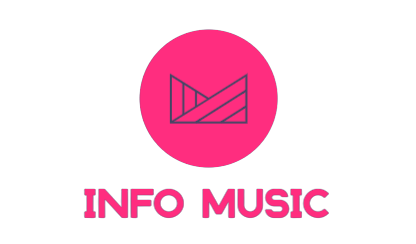
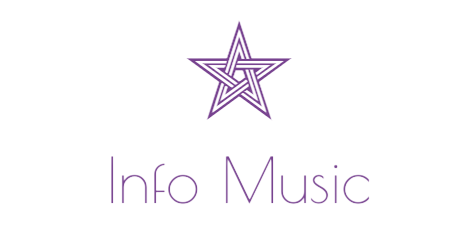
all clear

Changed region(s): [[0.1875, 0.0861, 0.8125, 0.918], [0.3438, 0.6311, 0.375, 0.6598]]

diff --git a/resources/css/elements.css b/resources/css/elements.css
@@ -1,20 +1,30 @@
-/* style de elementos */
-.main-header{
-    width: 100%;
+.header{
     padding: 0;
-    margin-top: 0;
     display: flex;
-    justify-content:center;
-}    
-.content-header{
-    border-radius: 100px;
-    width: 120px;
+    justify-content: space-between;
+    padding:20px;
+    align-items:center;
+    flex-wrap: wrap;
 }
-.content-header img{
-    background: var(--main-white);
-    border-bottom-right-radius: 20px;
-    border-bottom-left-radius: 20px;
-    height: 100px;
+.header a img{
+    height: 90px;
+}
+.menu{
+   display: flex;
+}
+.menu li{
+    margin-left: 15px;
+    color: var(--main-white);
+    cursor: pointer;
+    text-transform: uppercase;
+    font-size: 1.0rem;
+}
+.menu li:hover{
+    color: var(--sec-purple);
+}
+.menu li a{
+    display: block;
+    padding: 10px;
 }
 .search-box{
     position: absolute;
@@ -70,94 +80,42 @@
     height: 20px;
 }
 
-/* style footer */
-
-footer{
-    position: fixed;
-    bottom: 0px;
-    width: 100%;
-    background: var(--main-black);
-    color: var(--main-white);
-    font-size: 12px;
-}
-
-.main-content{
-    display: flex;
-}
-
-.main-content .box{
-    flex-basis: 50%;
-    padding: 10px 20px;
-}
-
-.box h2{
-    font-size: 18px;
-    font-weight: 600;
-    text-transform: uppercase;
-}
-
-.box .content{
-    margin: 20px 0 0 0;
-    position: relative;
-}
-
-.box .content:after{
-    position: absolute;
-    content: '';
-    width: 15%;
-    height: 2px;
-    background: var(--main-softblue);
-    top: -10px;
-}
-
-.box .content:before{
-    position: absolute;
-    content: '';
-    height: 2px;
-    width: 100%;
-    background: var(--main-black);
-    top: -10px;
-}
-
-.left .content .social{
-    margin: 20px 0 0 0;
-}
-
-.left .content .social{
-    padding: 0 2px;
-}
-
-.left .content .social{
-    width: 40px;
-    height: 40px;
-    background: var(--main-black);
-    text-align: center;
-    line-height: 40px;
-    border-radius: 5px;
-    font-size: 18px;
-    transition: 0.3s;
-}
-
-.left .content .social {
-    background: var(--main-softblue);
-}
-
-.left .content p{
-    text-align: justify;
-}
-
-.right img{
-    height: 70px;
-    float: right;
-}
 .container{
     display: flex;
     justify-content: center;
     align-items: center;
 }
+.container .content{
+    border-radius: 10px;
+    background: var(--main-white);
+    color: var(--main-black);
+    height: auto;
+    width: 100%;
+    display: flex;
+    justify-content: space-between;
+    margin: 30px;
+    padding: 50px;
+}
+.container .artist-description img{
+    border: 1px transparent solid;
+    border-radius: 200px;
+    height: 280px;
+    padding: 20px;
+}
+/* footer{ */
+/*     position: fixed; */
+/*     bottom: 0px; */
+/*     width: 100%; */
+/*     background: var(--main-black); */
+/*     color: var(--main-white); */
+/*     font-size: 12px; */
+/* } */
 
 #goBack{
     text-decoration: none;
-    color: var(--main-purple);
+    color: var(--main-softblue);
+    font-size: 1.8rem;
+    cursor: pointer;
+    padding: 10px;
 }
 

diff --git a/resources/elements/result.html b/resources/elements/result.html
@@ -1,21 +1,25 @@
-<a href="/" id="goBack">Go Back</a>
 
 <div class="container">
-    <div>
-        <img src="_artistThumb_"/>
-        <h2>_artistName_</h2>
+    <div class="content">
+        <div class="artist-description">
+            <h2>_artistName_</h2>
+                <img src="_artistThumb_"/>
+            <h3>
+                 <i class="fa-solid fa-music"></i>
+                _artistGenre_
+            </h3>
+            <h3>
+                <i class="fa-solid fa-globe"></i>
+                _artistCountry_
+            </h3>
+        </div>
 
-        <h3>
-           <i class="fa-solid fa-music"></i>
-            _artistGenre_
-        </h3>
-        <h3>
-            <i class="fa-solid fa-globe"></i>
-            _artistCountry_
-        </h3>
-
-        <div>
-            <h1>Biography</h1>
+        <div class="artist-bio">
+            <h2>Artist Bio</h2>
             <p>_artistBio_</p>
         </div>
+        <a href="/" id="goBack">
+            <i class="fa-sharp fa-solid fa-arrow-rotate-left"></i>
+        </a>
+    </div>
 </div>

diff --git a/resources/css/style.css b/resources/css/style.css
@@ -1,12 +1,19 @@
-@import url('https://fonts.googleapis.com/css2?family=Oxygen:wght@700&display=swap');
-body{
+@import url('https://fonts.googleapis.com/css2?family=Roboto+Condensed:wght@700&display=swap');
+
+body,ul,li,p{
 	margin: 0;
     padding: 0;
-	height: 100%;
-	width: 100%;
     overflow-x: hidden;
-    background: linear-gradient(109.6deg, rgb(43, 1, 91) 13.4%, rgb(122, 2, 54) 100.2%);
-    font-family: 'Oxygen', sans-serif;
+    font-size: 1.2rem;
+    font-family: 'Roboto Condensed', sans-serif;
+}
+body{
+    background: url("../img/people.webp");
+}
+
+a{
+    text-decoration: none;
+    color: var(--main-white);
 }
 
 @media screen and (max-width: 900px){
@@ -14,11 +21,11 @@ body{
        position: fixed;
        bottom: 0px;
    }
-   .main-content{
+   .container{
        flex-wrap: wrap;
        flex-direction: column;
    }
-    .main-content .box{
+    .container .box{
         margin: 5px 0;
     }
 }

diff --git a/resources/elements/header.html b/resources/elements/header.html
@@ -1,5 +1,14 @@
- <header class="main-header">
-      <div class="content-header">
-        <img src="resources/img/infomusic.png">
-      </div>
+ <header class="header">
+    <a href="\">
+        <img src="resources/img/infomusic3.png">
+    </a>
+    <nav>
+        <ul class="menu">
+          <a href="\">
+            <li>Home</li>
+          </a>
+            <li>Contact</li>
+            <li>About</li>
+        </ul>
+    </nav>
   </header>

diff --git a/resources/index.html b/resources/index.html
@@ -7,7 +7,7 @@
     <link rel="stylesheet" href="resources/css/style.css">
     <link rel="stylesheet" href="resources/css/elements.css">
     <link rel="stylesheet" href="https://cdnjs.cloudflare.com/ajax/libs/font-awesome/6.2.0/css/all.min.css">
-    <title>Info Music | Conheça um pouco do seu artista ou banda</title>
+    <title>Info Music | Know ur favorite artist</title>
 </head>
 <body>
     {{header}}

diff --git a/resources/css/_variables.css b/resources/css/_variables.css
@@ -1,11 +1,9 @@
 :root{
     --main-white: #FFFFFF;
-    --main-grey: #353b48;
-    --sec-gray: #AFB1B2;
+    --main-grey: #D3D3D3;
     --main-black: #121216;
     --sec-black: #1B1D20;
     --ter-black: #282A2D;
-    --main-softcian: #74EBD5;
     --main-softblue: #9FACE6;
-    --main-purple: #903CF3;
+    --sec-purple: #DDA0DD;
 }

diff --git a/resources/elements/footer.html b/resources/elements/footer.html
@@ -3,7 +3,7 @@
         <div class="left box">
           <div class="content">
             <p>
-                InfoMusic © 2022 - All Rights Reserved
+                <!-- InfoMusic © 2022 - All Rights Reserved -->
             </p>
           </div>
         </div>
